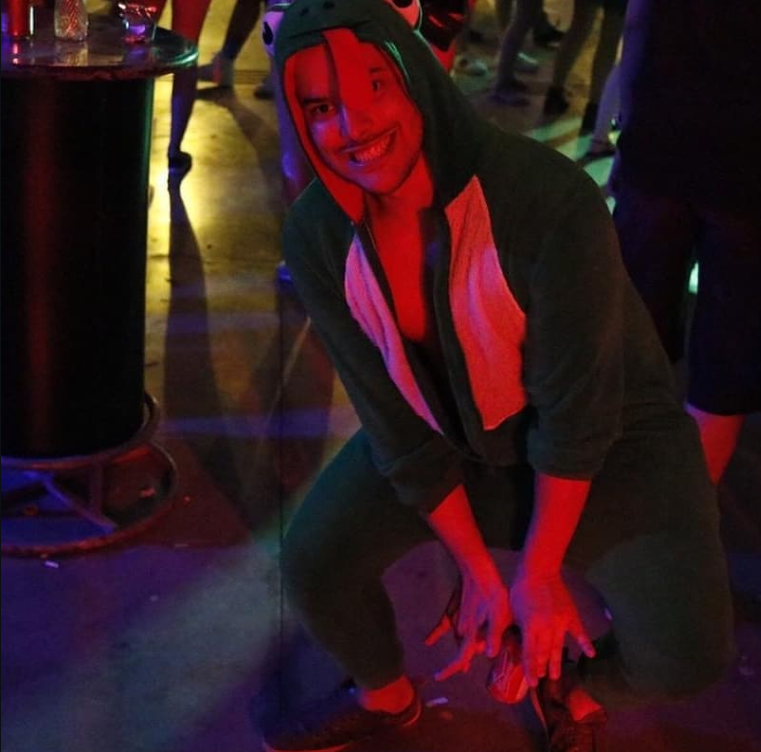
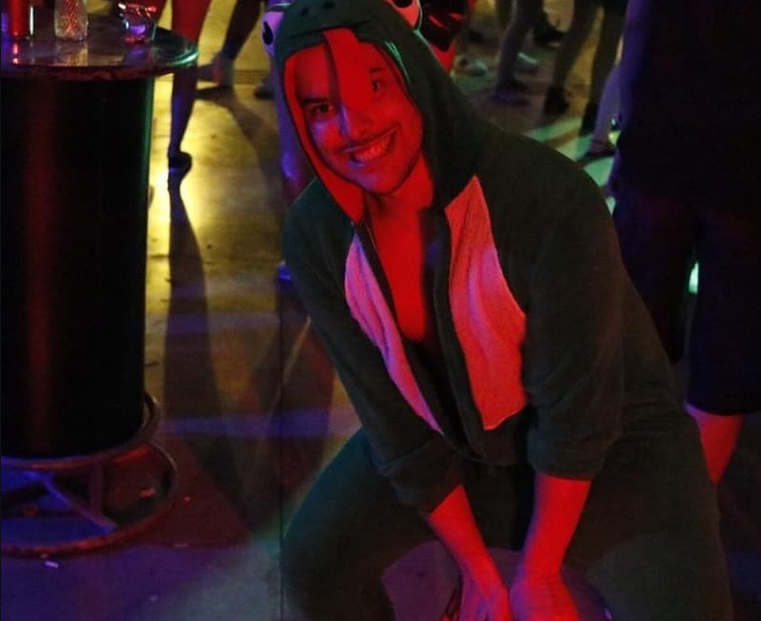
Corrige caminhos das fotos de solteiros e aplica 2 colunas no mobile

diff --git a/solteiros.html b/solteiros.html
@@ -44,7 +44,7 @@
           os solteiros disponíveis no salão hoje.
         </p>
 
-        <div class="grid grid-3">
+        <div class="grid grid-3 grid-solteiros">
 
           <div class="solteiro-card reveal" style="--i:0">
             <img class="solteiro-foto" src="assets/solteiros/Rodrigo.jpeg" alt="Rodrigo" />
@@ -207,7 +207,7 @@
           </div>
 
           <div class="solteiro-card reveal" style="--i:11">
-            <img class="solteiro-foto" src="assets/solteiros/Guiu.jpg" alt="Guiu" onerror="this.style.visibility='hidden'" />
+            <img class="solteiro-foto" src="assets/solteiros/Guiu.png" alt="Guiu" onerror="this.style.visibility='hidden'" />
             <div class="solteiro-info">
               <p class="solteiro-manchete">💊 A cientista dos remédios (e dos animes)</p>
               <h3 class="solteiro-nome">Guiu</h3>
@@ -233,7 +233,7 @@
           </div>
 
           <div class="solteiro-card reveal" style="--i:13">
-            <img class="solteiro-foto" src="assets/solteiros/Gika.jpg" alt="Gika" onerror="this.style.visibility='hidden'" />
+            <img class="solteiro-foto" src="assets/solteiros/Gika.jpeg" alt="Gika" onerror="this.style.visibility='hidden'" />
             <div class="solteiro-info">
               <p class="solteiro-manchete">🔮 A astróloga oficial do grupo</p>
               <h3 class="solteiro-nome">Gika</h3>
@@ -246,7 +246,7 @@
           </div>
 
           <div class="solteiro-card reveal" style="--i:14">
-            <img class="solteiro-foto" src="assets/solteiros/Felipe Guedes.jpg" alt="Felipe Guedes" onerror="this.style.visibility='hidden'" />
+            <img class="solteiro-foto" src="assets/solteiros/Lipe.jpeg" alt="Felipe Guedes" onerror="this.style.visibility='hidden'" />
             <div class="solteiro-info">
               <p class="solteiro-manchete">🌍 O dono dos fusos horários</p>
               <h3 class="solteiro-nome">Felipe Guedes</h3>
@@ -259,7 +259,7 @@
           </div>
 
           <div class="solteiro-card reveal" style="--i:15">
-            <img class="solteiro-foto" src="assets/solteiros/Henrique Brazil.jpg" alt="Henrique Brazil" onerror="this.style.visibility='hidden'" />
+            <img class="solteiro-foto" src="assets/solteiros/Henrique Brasil.jpeg" alt="Henrique Brazil" onerror="this.style.visibility='hidden'" />
             <div class="solteiro-info">
               <p class="solteiro-manchete">🩺 O dedicado da turma</p>
               <h3 class="solteiro-nome">Henrique Brazil</h3>
@@ -272,7 +272,7 @@
           </div>
 
           <div class="solteiro-card reveal" style="--i:16">
-            <img class="solteiro-foto" src="assets/solteiros/Jessica Baz.jpg" alt="Jéssica Baz" onerror="this.style.visibility='hidden'" />
+            <img class="solteiro-foto" src="assets/solteiros/Jessica.jpeg" alt="Jéssica Baz" onerror="this.style.visibility='hidden'" />
             <div class="solteiro-info">
               <p class="solteiro-manchete">📸 A radiologista que não deixa ninguém no tédio</p>
               <h3 class="solteiro-nome">Jéssica Baz</h3>
@@ -285,7 +285,7 @@
           </div>
 
           <div class="solteiro-card reveal" style="--i:17">
-            <img class="solteiro-foto" src="assets/solteiros/Carol Million.jpg" alt="Carol Million" onerror="this.style.visibility='hidden'" />
+            <img class="solteiro-foto" src="assets/solteiros/Carol.jpeg" alt="Carol Million" onerror="this.style.visibility='hidden'" />
             <div class="solteiro-info">
               <p class="solteiro-manchete">🌊 A carioca da gema</p>
               <h3 class="solteiro-nome">Carol Million</h3>
@@ -298,7 +298,7 @@
           </div>
 
           <div class="solteiro-card reveal" style="--i:18">
-            <img class="solteiro-foto" src="assets/solteiros/Roberta Ribeiro.jpg" alt="Roberta Ribeiro" onerror="this.style.visibility='hidden'" />
+            <img class="solteiro-foto" src="assets/solteiros/Roberta.jpeg" alt="Roberta Ribeiro" onerror="this.style.visibility='hidden'" />
             <div class="solteiro-info">
               <p class="solteiro-manchete">⚡ Corre de tu</p>
               <h3 class="solteiro-nome">Roberta Ribeiro</h3>
@@ -337,7 +337,7 @@
           </div>
 
           <div class="solteiro-card reveal" style="--i:21">
-            <img class="solteiro-foto" src="assets/solteiros/Diego.jpg" alt="Diego" onerror="this.style.visibility='hidden'" />
+            <img class="solteiro-foto" src="assets/solteiros/Diego.png" alt="Diego" onerror="this.style.visibility='hidden'" />
             <div class="solteiro-info">
               <p class="solteiro-manchete">🐾 O pai de pet mais babão</p>
               <h3 class="solteiro-nome">Diego</h3>
@@ -350,7 +350,7 @@
           </div>
 
           <div class="solteiro-card reveal" style="--i:22">
-            <img class="solteiro-foto" src="assets/solteiros/Guiga.jpg" alt="Guiga" onerror="this.style.visibility='hidden'" />
+            <img class="solteiro-foto" src="assets/solteiros/Guiga.jpeg" alt="Guiga" onerror="this.style.visibility='hidden'" />
             <div class="solteiro-info">
               <p class="solteiro-manchete">🏍 O motoqueiro geração Z</p>
               <h3 class="solteiro-nome">Guiga</h3>
@@ -363,7 +363,7 @@
           </div>
 
           <div class="solteiro-card reveal" style="--i:23">
-            <img class="solteiro-foto" src="assets/solteiros/Dudu.jpg" alt="Dudu" onerror="this.style.visibility='hidden'" />
+            <img class="solteiro-foto" src="assets/solteiros/Dudu.png" alt="Dudu" onerror="this.style.visibility='hidden'" />
             <div class="solteiro-info">
               <p class="solteiro-manchete">🎢 Sempre uma aventura</p>
               <h3 class="solteiro-nome">Dudu</h3>
@@ -376,7 +376,7 @@
           </div>
 
           <div class="solteiro-card reveal" style="--i:24">
-            <img class="solteiro-foto" src="assets/solteiros/Rafa.jpg" alt="Rafa" onerror="this.style.visibility='hidden'" />
+            <img class="solteiro-foto" src="assets/solteiros/Rafa.png" alt="Rafa" onerror="this.style.visibility='hidden'" />
             <div class="solteiro-info">
               <p class="solteiro-manchete">🍹 Quem sustenta sua bebedeira</p>
               <h3 class="solteiro-nome">Rafa</h3>

diff --git a/css/style.css b/css/style.css
@@ -312,6 +312,14 @@ img {
   .grid-3 { grid-template-columns: repeat(3, 1fr); }
 }
 
+/* Elenco da Festa: 2 colunas já no mobile (telas bem pequenas ficam em 1) */
+@media (min-width: 380px) {
+  .grid-solteiros {
+    grid-template-columns: repeat(2, 1fr);
+    gap: 1rem;
+  }
+}
+
 /* ---------- Cronograma ---------- */
 .timeline {
   position: relative;
